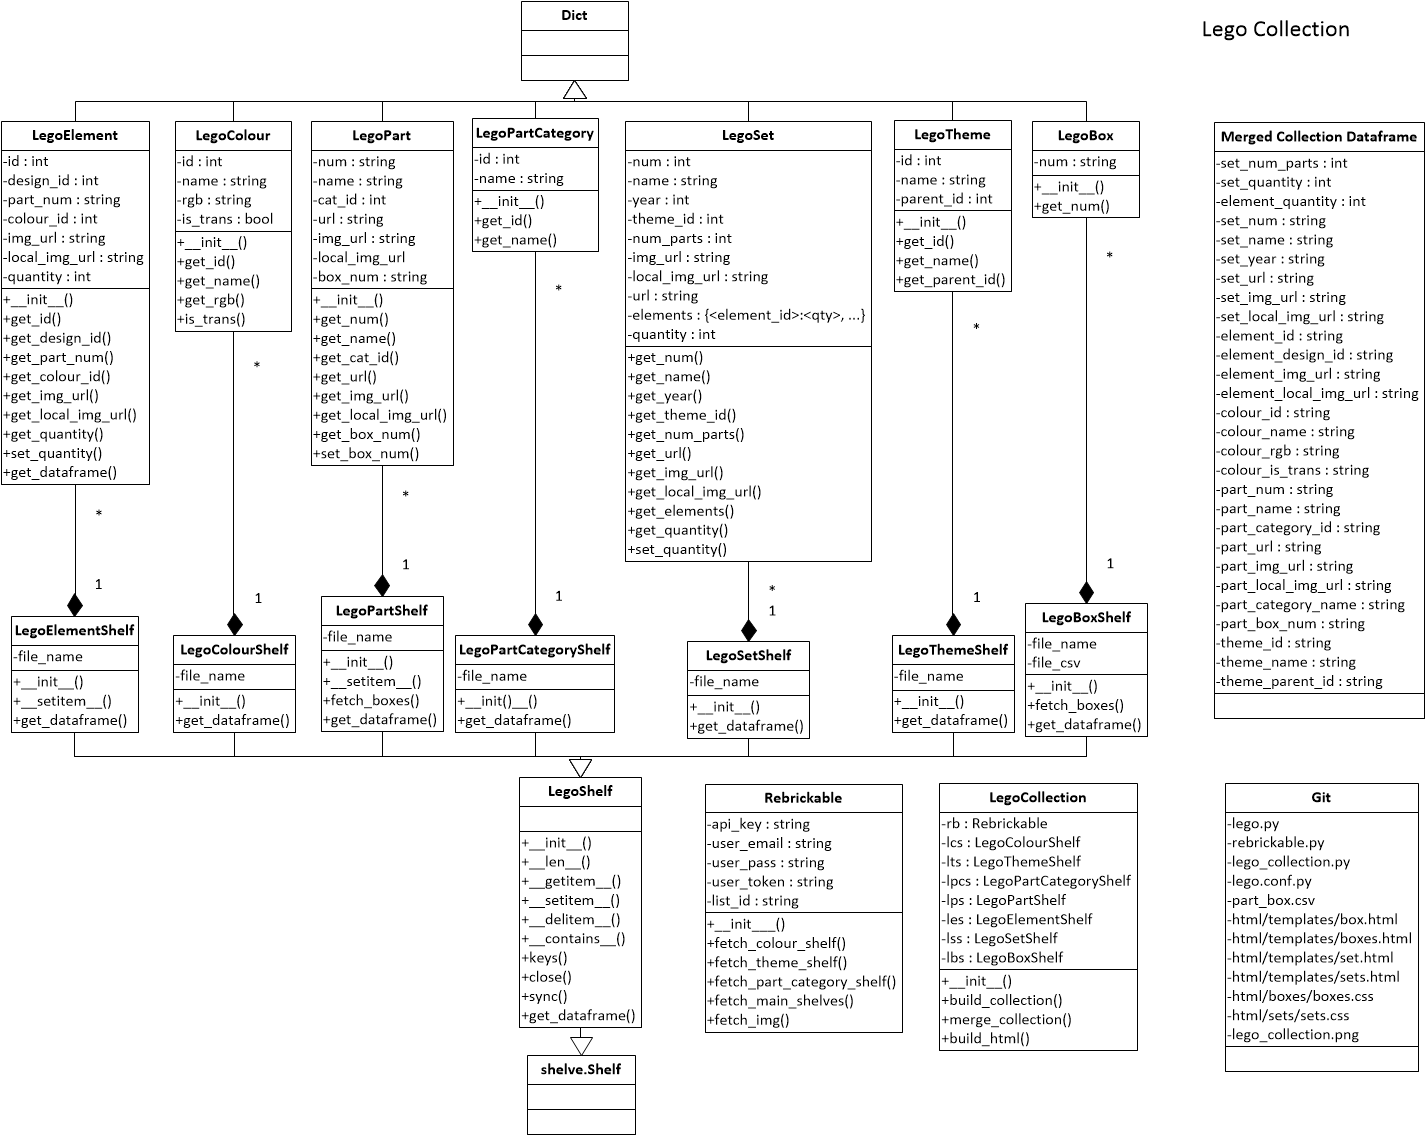
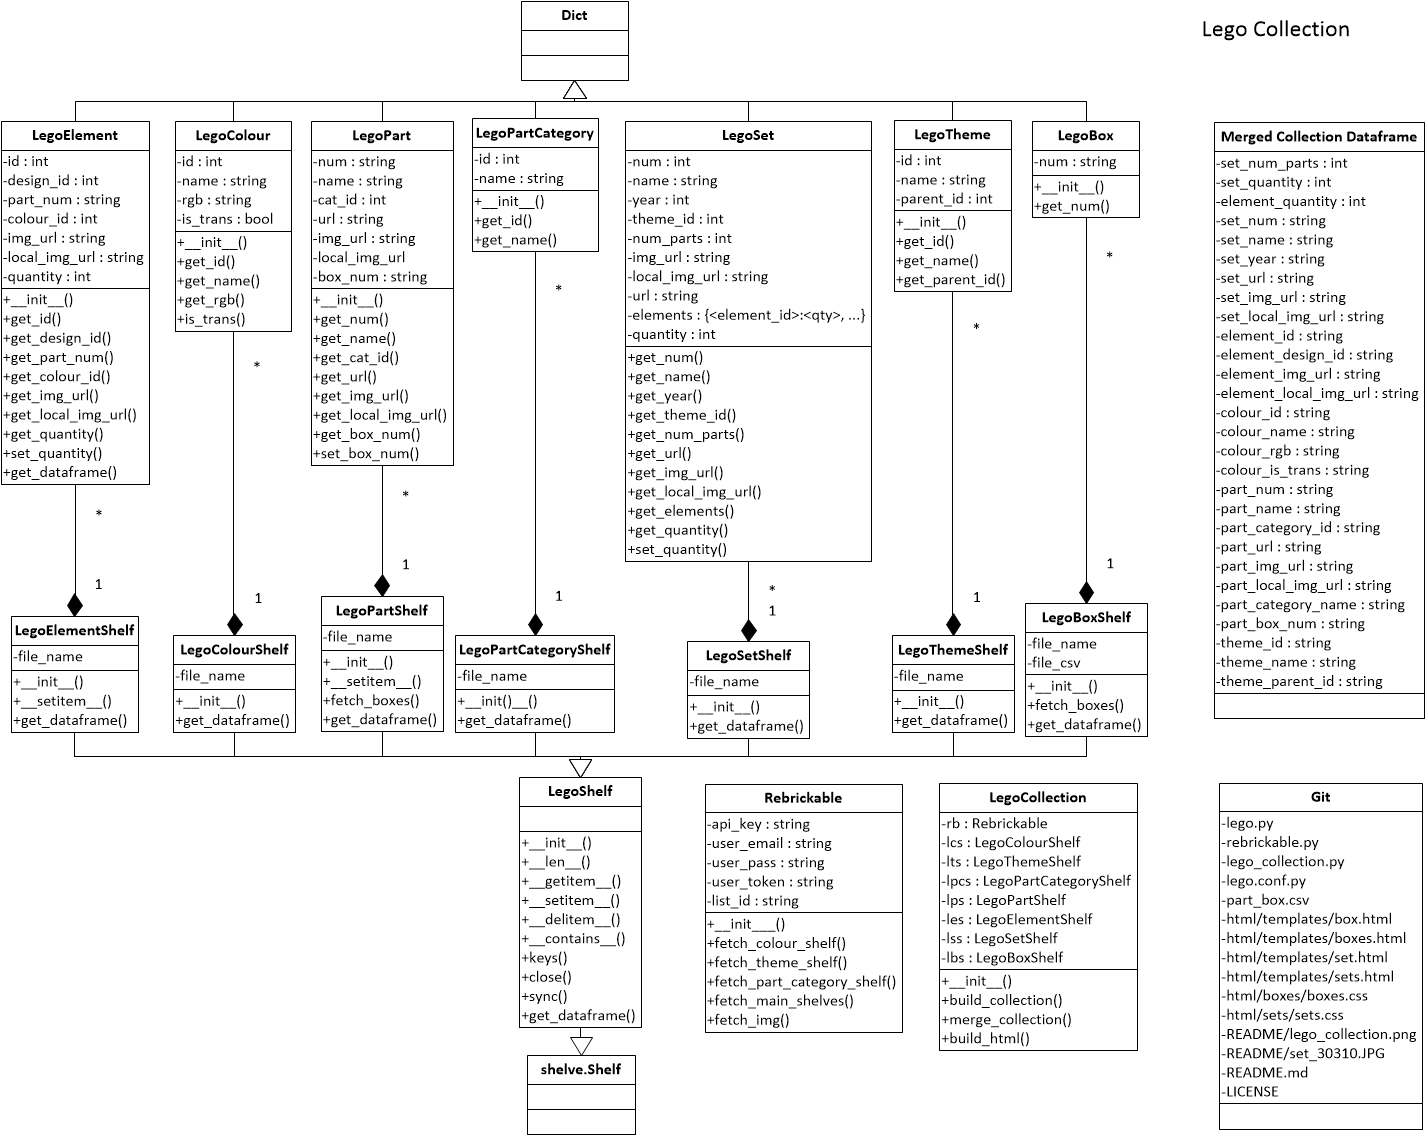
Modified to take account of the creation of README dir

Changed region(s): [[0.8646, 0.7093, 1.0, 0.9868]]

diff --git a/README.md b/README.md
@@ -5,20 +5,19 @@
 
 Hi there,
 
-I have been working for a while on a Python 3 application to manage my LEGO collection.
+I have been working for a while on a `Python 3` application to manage my `LEGO` collection.
 
 I physically store my +- 60,000 Lego bricks in labelled boxes (+- 275) according to their type. 
-As it is the case with rebrickable.com, for each Lego set I own, the application tells me what type of Lego 
+As it is the case with [rebrickable.com](https://rebrickable.com), for each Lego set I own, the application tells me what type of Lego 
 bricks I need to build it and how many of each type. In addition (and this is the interesting point), 
 the application tells me in which box I store each brick.
 
 As an example, the image below displays one of the html pages generated by the application with the box labels printed in green.
 
+<img src="README/set_30310.JPG" width="500" alt = "set 30310">
 
-
-![picture alt](README/set_30310.JPG "set 30310")
-
-The application uses the rebrickable.com API and the Python packages shelves, pandas and jinja2. If there is some interest out there, I can work a little bit to add some documentation.
+The application uses the [rebrickable.com API](https://rebrickable.com/api/) and the Python packages `shelves`, `pandas` and `jinja2`. 
+If there is some interest out there, I can work a little bit to add some documentation.
 
 I hope this is useful. 
 
